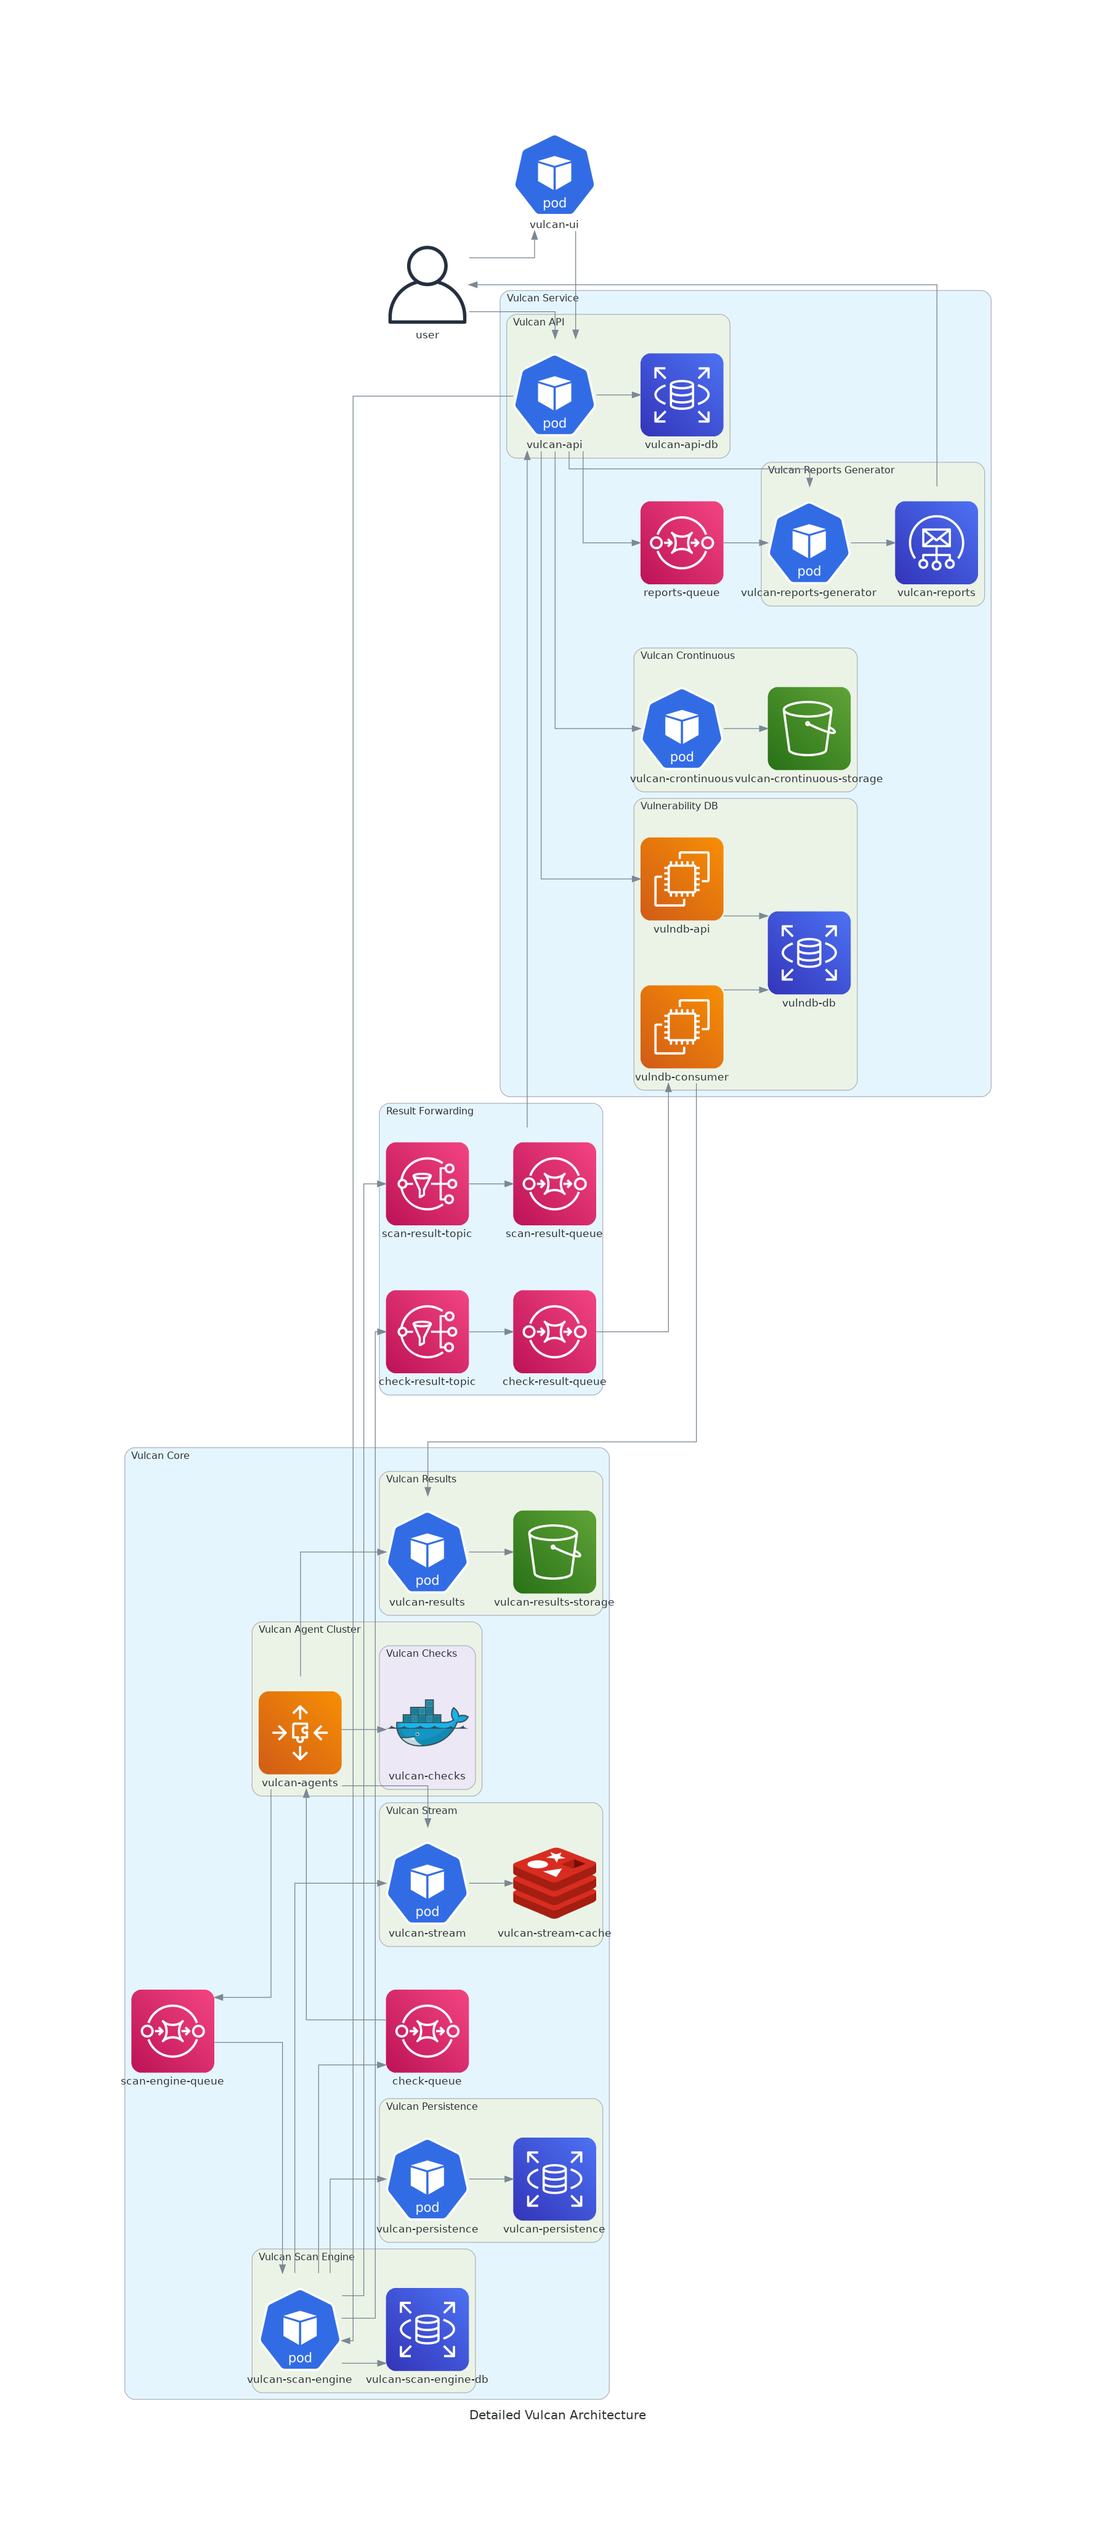
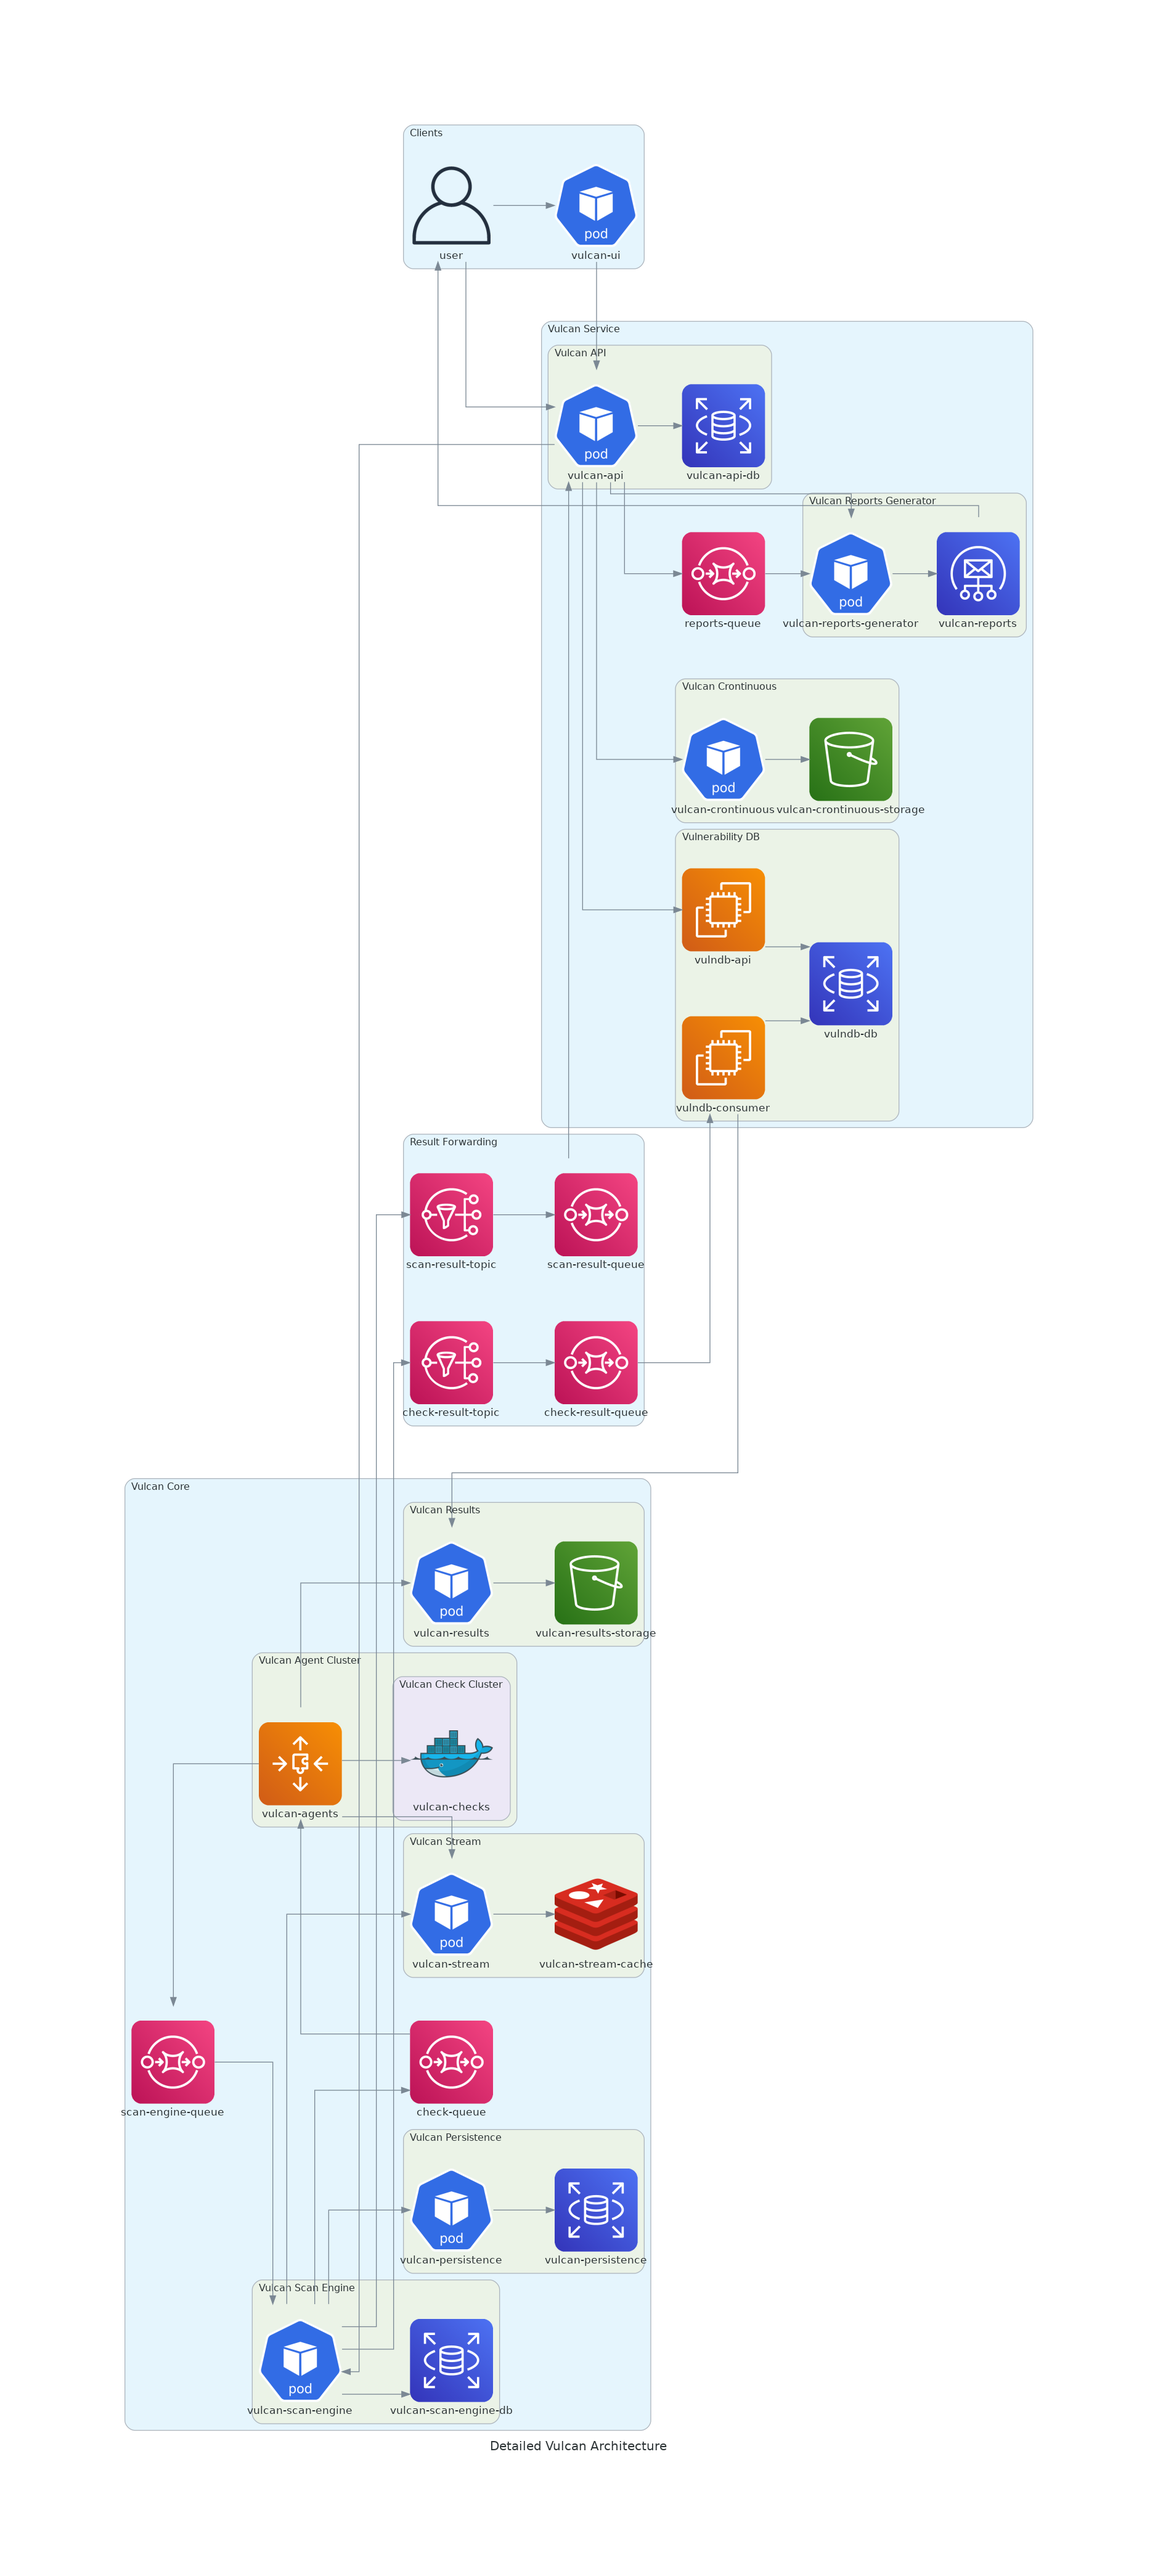
Update diagram

Changed region(s): [[0.0927, 0.0312, 0.8962, 0.9685], [0.4327, 0.9373, 0.4636, 0.9685]]

diff --git a/diagrams/detailed-architecture.py b/diagrams/detailed-architecture.py
@@ -10,8 +10,9 @@ from diagrams.onprem.container import Docker
 from diagrams.onprem.inmemory import Redis
 
 with Diagram("Detailed Vulcan Architecture", outformat="png", filename="docs/img/detailed-architecture", show=False):
-        user = User("user")
-        vulcan_ui = Pod("vulcan-ui")
+        with Cluster("Clients"):
+                user = User("user")
+                vulcan_ui = Pod("vulcan-ui")
 
         with Cluster("Vulcan Service"):
                 with Cluster("Vulcan API"):
@@ -65,7 +66,7 @@ with Diagram("Detailed Vulcan Architecture", outformat="png", filename="docs/img
                 with Cluster("Vulcan Agent Cluster"):
                         vulcan_agents = AutoScaling("vulcan-agents")
                         vulcan_agents >> scan_engine_queue
-                        with Cluster("Vulcan Checks"):
+                        with Cluster("Vulcan Check Cluster"):
                                 vulcan_checks = Docker("vulcan-checks")
 
         with Cluster("Result Forwarding"):

diff --git a/README.md b/README.md
@@ -15,6 +15,8 @@ The documentation site is generated using [MkDocs](https://www.mkdocs.org/) and 
 pip3 install -r requirements.txt
 python3 diagrams/simplified-architecture.py
 # The image will be created in "docs/img/simplified-architecture.png".
+python3 diagrams/detailed-architecture.py
+# The image will be created in "docs/img/detailed-architecture.png".
 ```
 
 ## Viewing Documentation
